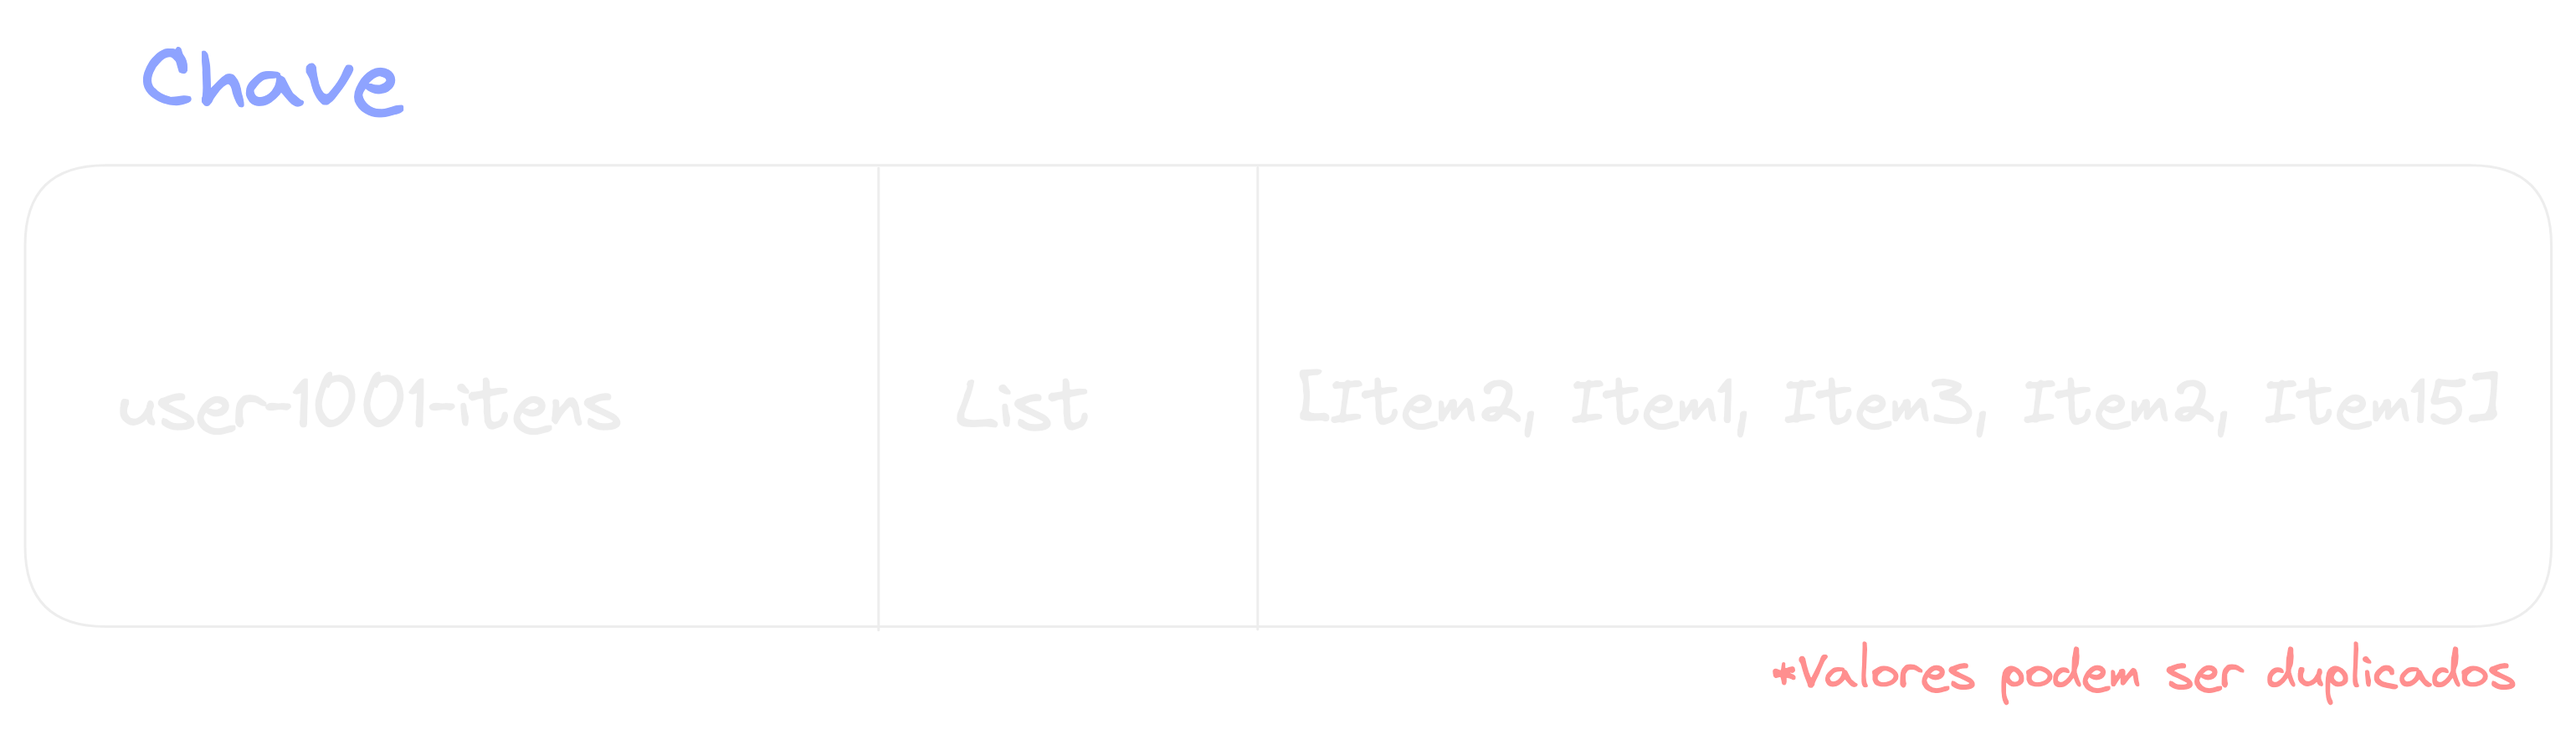
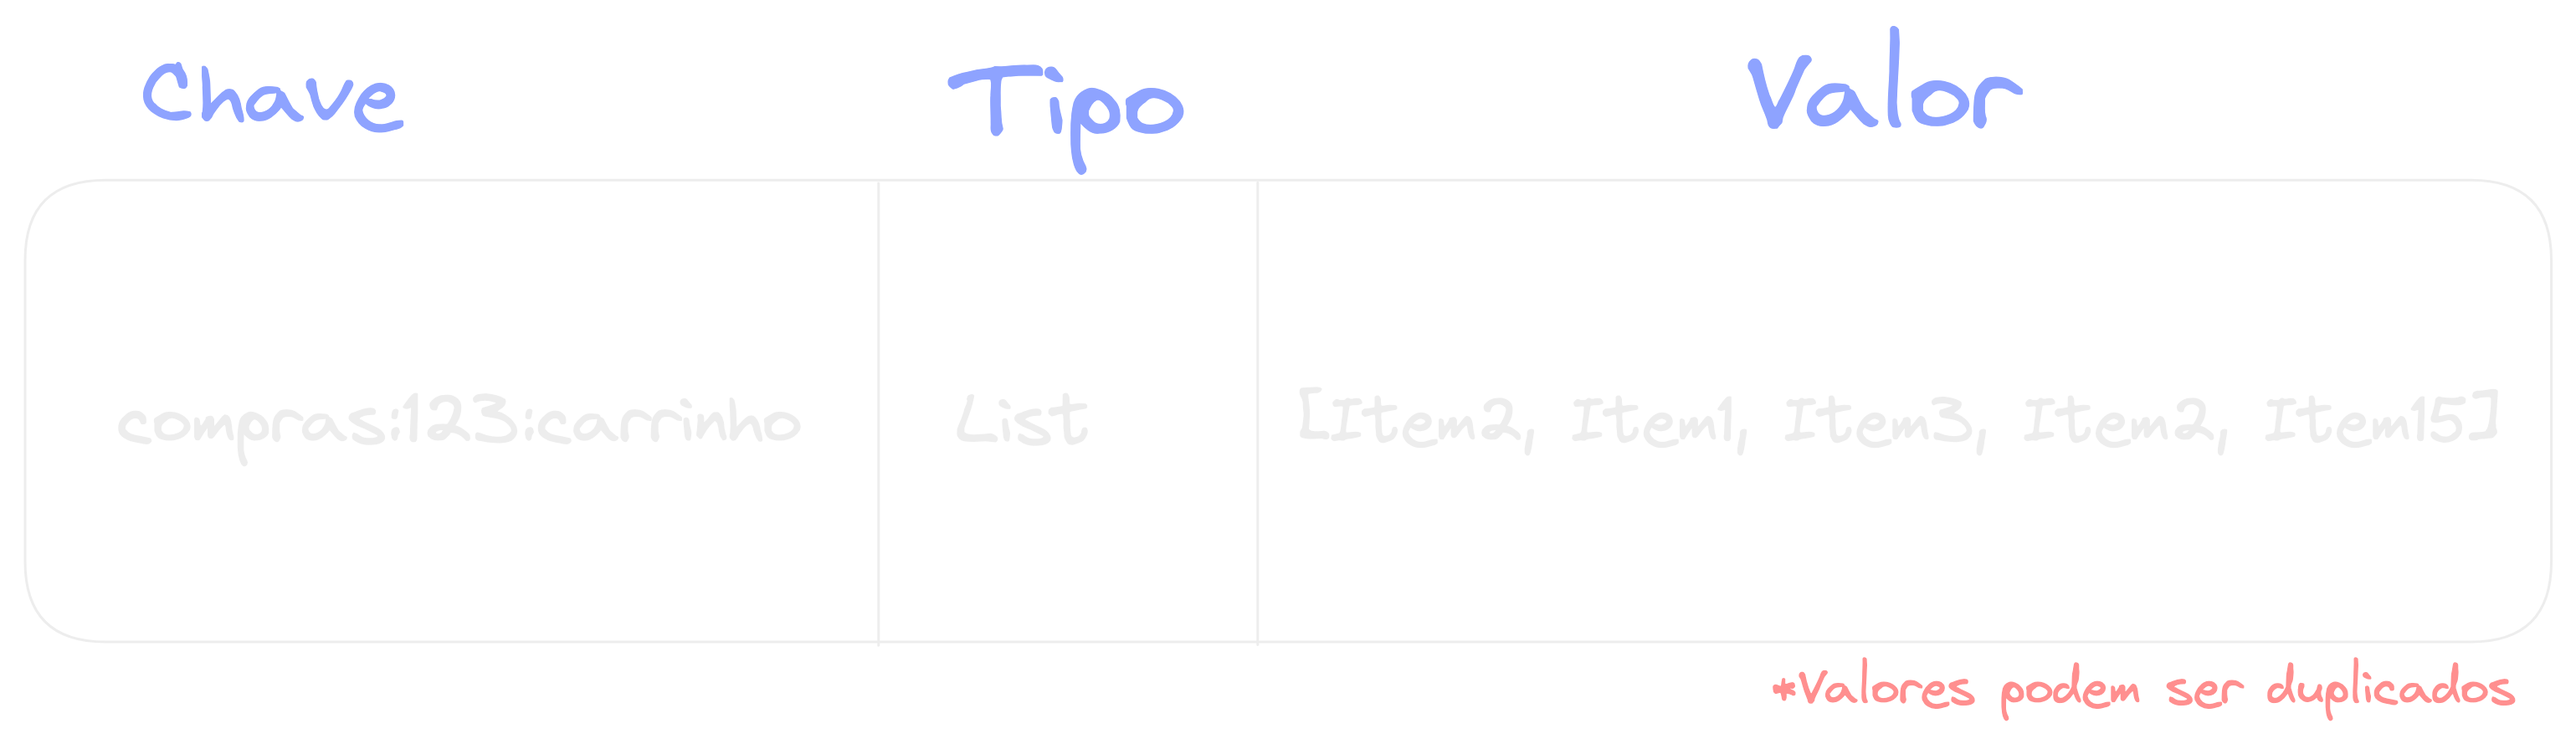
Adiciona exmeplos para listas

diff --git a/script.md b/script.md
@@ -92,9 +92,9 @@ LT -- Set expiry only when the new expiry is less than current one
 ```
 SET report:98:csv exemplo1 EX 30
 
-SET report:98:csv exemplo2 EX 20
+SET report:98:csv exemplo2 EX 20 //Com tempo de expiração
 
-SETNX report:98:csv exemplo3
+SETNX report:98:csv exemplo3 //Se nao existir
 ```
 
 ## Strings
@@ -132,23 +132,36 @@ GETRANGE example 5 11
 
 ## List
 
+Muito bom quando você só precisa fazer operações simpels, como adicionar ao remover das pontas
+Serve muito para imitar pilhas e filas, decks...
+
 ```bash
 	rpush compras:123:carrinho item
 	rpush compras:123:carrinho item2
-	rpush compras:123:carrinho item
+	rpush compras:123:carrinho item //falar que da para ter duplicação
 
 	lpush compras:123:carrinho letft-item
+
+	//Adicionando mais de um
+	rpush compras:123:carrinho item1 item2 item3
+
+	//ver todos 
+	lrange compras:123:carrinho 0 -1
 
 	//Se não quiser tem um fim, só colcoar -1 no lugar do 3
 	lrange compras:123:carrinho 0 3
 
-	lpop compras:123:carrinho 0
-	rpop compras:123:carrinho 0
+	lpop compras:123:carrinho //remove o primeiro da lista
+	rpop compras:123:carrinho //remove o ultimo da lista
+	rpop compras:123:carrinho "N" //remove n onjetos da esquerda ou direita
+
+
+	LINDEX compras:123:carrinho 0
+	LINDEX compras:123:carrinho -1 / -2 //Ultimo, penultimo...
 
 	llen compras:123:carrinho
 
-	//Insere se não existe
-	rpushx compras:123:carrinho item
+	ltrim compras:123:carrinho start stop //TODO: Verificar o comportamento do sart stop!
 ```
 
 
